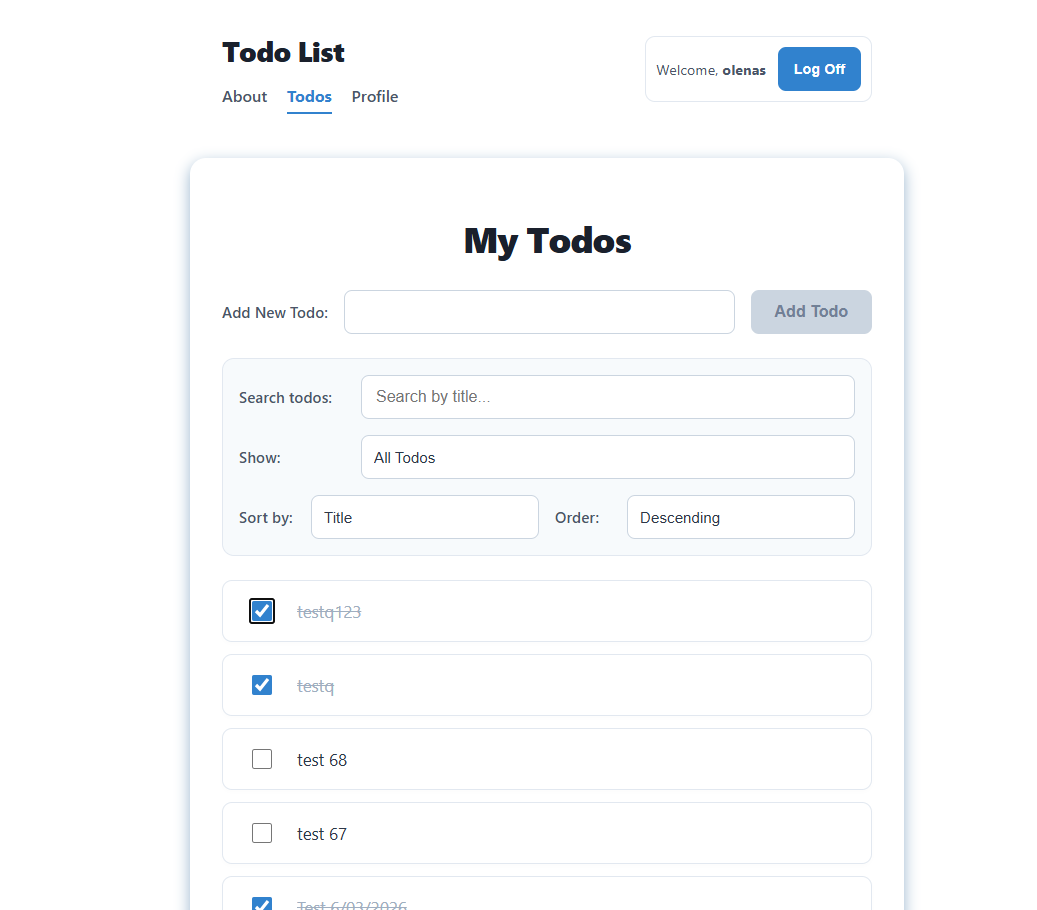
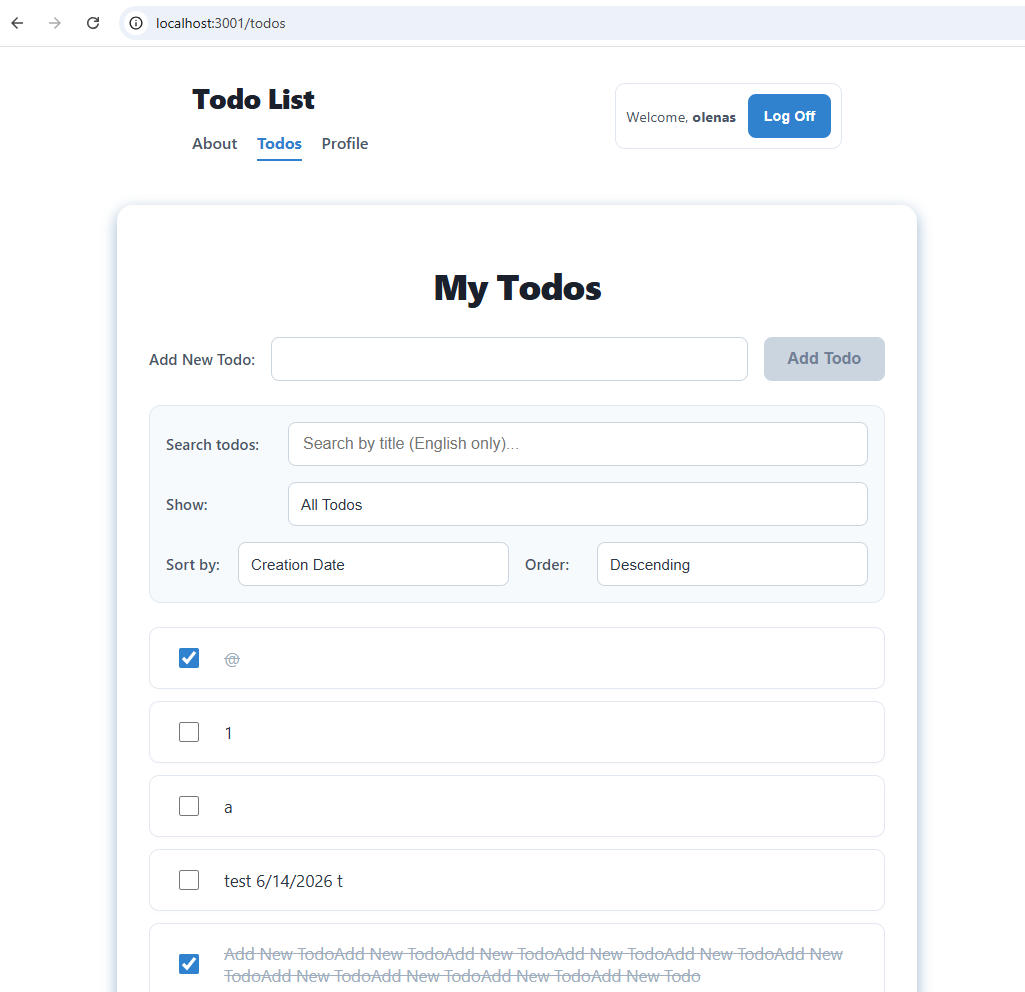
fix: resolve AI reviewer documentation and vercel config remarks

diff --git a/src/shared/Navigation.jsx b/src/shared/Navigation.jsx
@@ -6,11 +6,8 @@ function Navigation() {
   const { isAuthenticated } = useAuth();
 
   // Define a function to style the active navigation link
-  const navLinkStyle = ({ isActive }) => ({
-    fontWeight: isActive ? '700' : '500',
-    color: isActive ? '#3182ce' : '#4a5568',
-    borderBottom: isActive ? '2px solid #3182ce' : '2px solid transparent',
-  });
+  const getNavLinkClass = ({ isActive }) =>
+    `${styles.link} ${isActive ? styles.active : ''}`;
 
   return (
     <nav style={{ marginTop: '0.5rem' }}>
@@ -18,7 +15,7 @@ function Navigation() {
     
         {/* "About" link is always visible */}
         <li>
-          <NavLink to="/about" style={navLinkStyle} className={styles.link}>
+          <NavLink to="/about" className={getNavLinkClass}>
             About
           </NavLink>
         </li>
@@ -27,12 +24,12 @@ function Navigation() {
         {isAuthenticated && (
           <>
             <li>
-              <NavLink to="/todos" style={navLinkStyle} className={styles.link}>
+              <NavLink to="/todos" className={getNavLinkClass}>
                 Todos
               </NavLink>
             </li>
             <li>
-              <NavLink to="/profile" style={navLinkStyle} className={styles.link}>
+              <NavLink to="/profile" className={getNavLinkClass}>
                 Profile
               </NavLink>
             </li>
@@ -42,7 +39,7 @@ function Navigation() {
         {/* "Login" link is visible only to unauthenticated users */}
         {!isAuthenticated && (
           <li>
-            <NavLink to="/login" style={navLinkStyle} className={styles.link}>
+            <NavLink to="/login" className={getNavLinkClass}>
               Login
             </NavLink>
           </li>

diff --git a/src/shared/Header.module.css b/src/shared/Header.module.css
@@ -2,11 +2,13 @@
   display: flex;
   justify-content: space-between;
   align-items: center;
-  max-width: 650px;
+  max-width: 800px;
   margin: 20px auto 10px auto;
-  padding: 12px 24px;
+  padding: 12px 32px;
   background-color: transparent;
   font-family: -apple-system, BlinkMacSystemFont, 'Segoe UI', Roboto, sans-serif;
+  box-sizing: border-box;
+  width: 100%;
 }
 
 /* Left section: Logo and navigation */
@@ -22,25 +24,6 @@
   color: #1a202c;
   margin: 0;
   letter-spacing: -0.025em;
-}
-
-.navLinks {
-  display: flex;
-  gap: 16px;
-}
-
-/* Styles for navigation links */
-.link {
-  font-size: 0.95rem;
-  font-weight: 600;
-  color: #4a5568;
-  text-decoration: none; /* Remove default underline */
-  transition: color 0.2s ease;
-}
-
-/* Smooth hover state as per requirements */
-.link:hover {
-  color: #3182ce;
 }
 
 /* Right section: Greeting and logout button */
@@ -89,11 +72,14 @@
     flex-direction: column;
     align-items: stretch;
     gap: 16px;
-    margin: 10px 16px;
+    margin: 20px 16px 10px 16px;
     padding: 0;
+    width: auto;
   }
 
   .userSection {
     justify-content: space-between;
+    width: 100%;
+    box-sizing: border-box;
   }
 }

diff --git a/src/shared/Navigation.module.css b/src/shared/Navigation.module.css
@@ -8,14 +8,22 @@
 
 .link {
   font-size: 1rem;
+  font-weight: 500;
   color: #4a5568;
   text-decoration: none;
   transition: all 0.2s ease-in-out;
   padding: 6px 0;
   cursor: pointer;
+  border-bottom: 2px solid transparent;
 }
 
 /* Hover effect as per requirements */
 .link:hover {
+  color: #0777e0;
+}
+
+.active {
+  font-weight: 700;
   color: #3182ce;
+  border-bottom: 2px solid #3182ce;
 }

diff --git a/README.md b/README.md
@@ -1,12 +1,12 @@
 # React Todo Application
 
-## 🔗 Live Application Link
-- **Repository Demo**: [Olena Salnikova GitHub Application] (https://github.com/Olena-Salnikova/olena-salnikova-react-todo-list)
-
 A modern, high-performance Todo management application built with React 18 and Vite. This application features comprehensive CRUD functionality, dynamic client-side filtering, and asynchronous caching state patterns. It is fully polished for production with custom styling architecture, mobile-first responsive design, and defensive client-side security measures.
 
+## 🔗 Live Application Link
+- **Deployment Status**: Local Execution Deployment (Production deployment is omitted per assignment provisions. Evaluation is conducted entirely through local environment runtime context and official video walkthrough).
+- **Code Repository**: [Olena Salnikova GitHub Application](https://github.com/Olena-Salnikova/olena-salnikova-react-todo-list)
+
 ## 📸 Technical Showcase
-*(Tip: Take 2 screenshots of your working app—one desktop, one mobile viewport emulation—and save them into a folder named `screenshots` inside your repository, then uncomment the paths below!)*
 
 ![Desktop Overview](./screenshots/desktop.png)
 ![Mobile Layout](./screenshots/mobile.png)
@@ -30,6 +30,22 @@ A modern, high-performance Todo management application built with React 18 and V
 - **CSS Modules**: Chosen to safeguard the application against global namespace contamination. Every visual view maps strictly to isolated components, allowing scalable refactoring.
 - **Accessibility & Mobile First**: Every interaction point (such as state check actions and submit buttons) maintains a physical bounding footprint of at least **44px** to ensure fluent mobile touchscreen tracking and keyboard input focus layout compliance.
 - **Secure Error Architecture**: Technical logs and underlying system stacks are strictly abstracted away from production rendering context to completely prevent platform surface vulnerabilities.
+
+## 📜 Available Scripts
+
+In the project directory, you can run the following package scripts:
+
+### `npm run dev`
+Runs the application in the local development server context. Open `http://localhost:3001` to view it in your browser.
+
+### `npm run build`
+Compiles and bundles the isolated production assets into the `dist` folder. It minifies the source code and optimizes the application for deployment.
+
+### `npm run preview`
+Locally boots up and serves the production build folder (`dist`) to verify compilation stability prior to public hosting.
+
+### `npm run lint`
+Executes strict automated ESLint code quality profiles across the codebase to identify style errors and unused code elements.
 
 ## 🚀 Installation & Local Launch
 
@@ -61,6 +77,11 @@ A modern, high-performance Todo management application built with React 18 and V
 - Integrate full end-to-end unit testing scripts via Vitest and React Testing Library profiles.
 - Implement Progressive Web App (PWA) manifest specifications for completely offline utility tracking.
 - Build custom global theming tokens to toggle dark/light layout context dynamically.
+
+## 📬 Contact Information
+- **Developer Name**: Olena Salnikova
+- **GitHub Profile**: [https://github.com](https://github.com/Olena-Salnikova)
+- **Project Link**: [olena-salnikova-react-todo-list](https://github.com/Olena-Salnikova/olena-salnikova-react-todo-list)
 
 ## 📄 License
 This codebase is distributed openly under the provisions of the MIT License.
